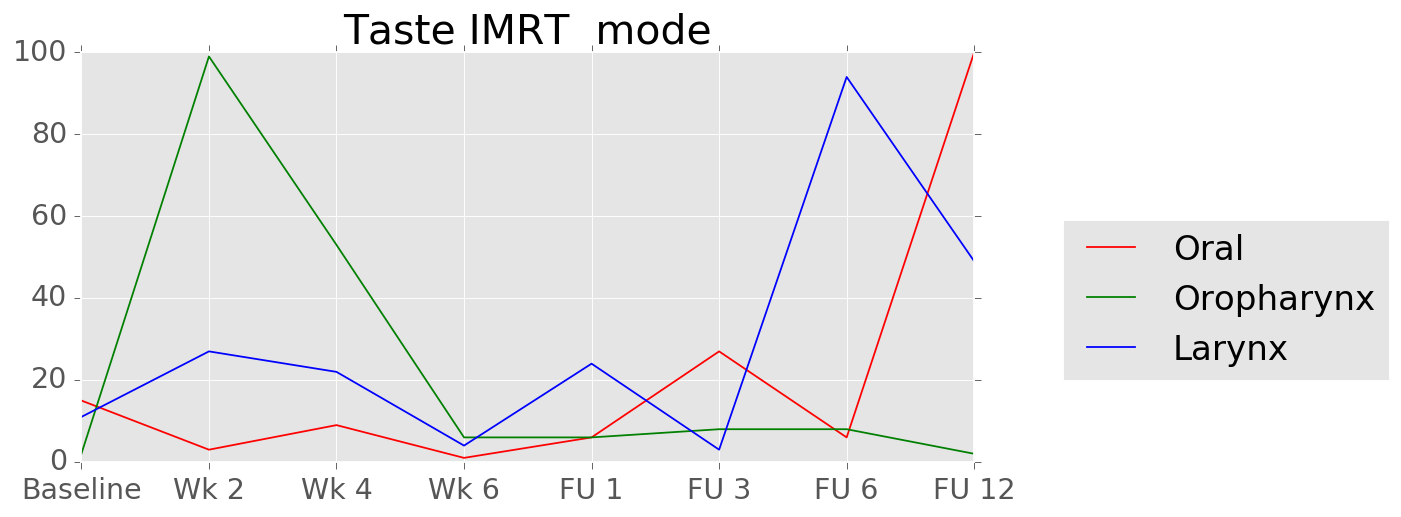
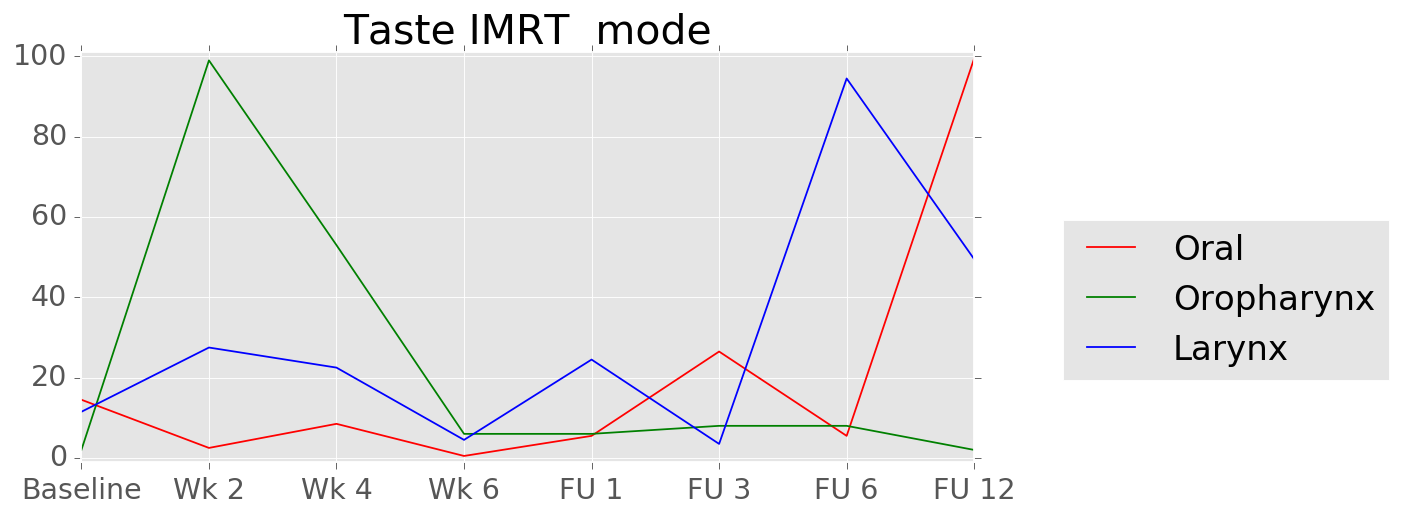
Final plots

diff --git a/plotting.py b/plotting.py
@@ -7,6 +7,7 @@ Created on Fri Sep 23 00:32:50 2016
 
 import pylab as plt
 import matplotlib
+import pandas as pd
 from scipy.stats.mstats import mode
 
 from data_reader import read_data
@@ -65,7 +66,52 @@ def do_plots_for_variable(var, save_figs, **plot_options):
     title = r'%s IMRT ($1 \sigma$ error bars)' % var
     _do_plot(var, mask, title, save_figs, plot_options)
 
+    idx = ((DATA.Category == 'Oral') |
+           (DATA.Category == 'Oropharynx') |
+           (DATA.Category == 'Larynx'))
+    cols.insert(0, 'Category')
+    grouped_nochemo_data = DATA[DATA.Chemo == 'No chemo'][idx][cols].groupby('Category')
+    grouped_chemo_data = DATA[DATA.Chemo == 'Chemo'][idx][cols].groupby('Category')
+
+    means_nochemo = grouped_nochemo_data.mean()
+    means_chemo = grouped_chemo_data.mean()
+    means_nochemo.columns = time_point_labels
+    means_chemo.columns = time_point_labels
+    means_nochemo = means_nochemo.loc[['Oral', 'Oropharynx', 'Larynx']]
+    means_chemo = means_chemo.loc[['Oral', 'Oropharynx', 'Larynx']]
+
+    fname = '%s-oral-chemo-vs-nochemo-mean-reduced-lineplot.png' % var
+    plt.figure()
+    data = pd.DataFrame({'no chemo': means_nochemo.loc['Oral'],
+                         'chemo': means_chemo.loc['Oral']})
+    data.plot()
+    plt.title('%s Oral mean - chemo vs no chemo' % var)
+    plt.axis([0, len(time_point_labels)-1, -1, 101])
+    plt.legend(loc=(1.1, 0.2))
+    output_fig(fname, save_figs, **plot_options)
+
+    fname = '%s-oropharynx-chemo-vs-nochemo-mean-reduced-lineplot.png' % var
+    plt.figure()
+    data = pd.DataFrame({'no chemo': means_nochemo.loc['Oropharynx'],
+                         'chemo': means_chemo.loc['Oropharynx']})
+    data.plot()
+    plt.title('%s Oropharynx mean - chemo vs no chemo' % var)
+    plt.axis([0, len(time_point_labels)-1, -1, 101])
+    plt.legend(loc=(1.1, 0.2))
+    output_fig(fname, save_figs, **plot_options)
+
+    fname = '%s-larynx-chemo-vs-nochemo-mean-reduced-lineplot.png' % var
+    plt.figure()
+    data = pd.DataFrame({'no chemo': means_nochemo.loc['Larynx'],
+                         'chemo': means_chemo.loc['Larynx']})
+    data.plot()
+    plt.title('%s Larynx mean - chemo vs no chemo' % var)
+    plt.axis([0, len(time_point_labels)-1, -1, 101])
+    plt.legend(loc=(1.1, 0.2))
+    output_fig(fname, save_figs, **plot_options)
+
     # Histograms
+    cols = time_points_for_variable(var)
     cols_data = DATA[cols]
     cols_data.columns = time_point_labels
     plt.figure()
@@ -92,6 +138,7 @@ def _do_plot(var, mask, title, save_figs, plot_options):
     """ A helper function to do a boxplot with errorbars for masked data. """
     title_fields = title.replace(r'($1 \sigma$ error bars)', '').split()[:2]
     fname = '-'.join(title_fields) + '-reduced-barplot-errorbar.png'
+    spread = .5
     cols = time_points_for_variable(var)
     cols.insert(0, 'Category')
 
@@ -125,9 +172,12 @@ def _do_plot(var, mask, title, save_figs, plot_options):
 
     fname = '-'.join(title_fields) + '-mean-reduced-lineplot.png'
     plt.figure()
+    means.loc['Oral']=means.loc['Oral']-spread
+    means.loc['Oropharynx']=means.loc['Oropharynx']+0
+    means.loc['Larynx']=means.loc['Larynx']+spread
     means.T.plot(style=['r-', 'g-', 'b-'])
     plt.title(title.replace(r'($1 \sigma$ error bars)', '') + ' mean')
-    plt.axis([0, len(time_point_labels)-1, 0, 100])
+    plt.axis([0, len(time_point_labels)-1, -1, 101])
     plt.legend(['Oral', 'Oropharynx', 'Larynx'], loc=(1.1, 0.2))
     output_fig(fname, save_figs, **plot_options)
 
@@ -136,10 +186,13 @@ def _do_plot(var, mask, title, save_figs, plot_options):
     gp_data = grouped_data.agg(lambda x: mode(x)[0][0])
     gp_data = gp_data.loc[['Oral', 'Oropharynx', 'Larynx']]
     gp_data.columns = time_point_labels
+    gp_data.loc['Oral']=gp_data.loc['Oral']-spread
+    gp_data.loc['Oropharynx']=gp_data.loc['Oropharynx']+0
+    gp_data.loc['Larynx']=gp_data.loc['Larynx']+spread
     gp_data = gp_data.T
     gp_data.plot(style=['r-', 'g-', 'b-'])
     plt.title(title.replace(r'($1 \sigma$ error bars)', '') + ' mode')
-    plt.axis([0, len(time_point_labels)-1, 0, 100])
+    plt.axis([0, len(time_point_labels)-1, -1, 101])
     plt.legend(['Oral', 'Oropharynx', 'Larynx'], loc=(1.1, 0.2))
     output_fig(fname, save_figs, **plot_options)
 
